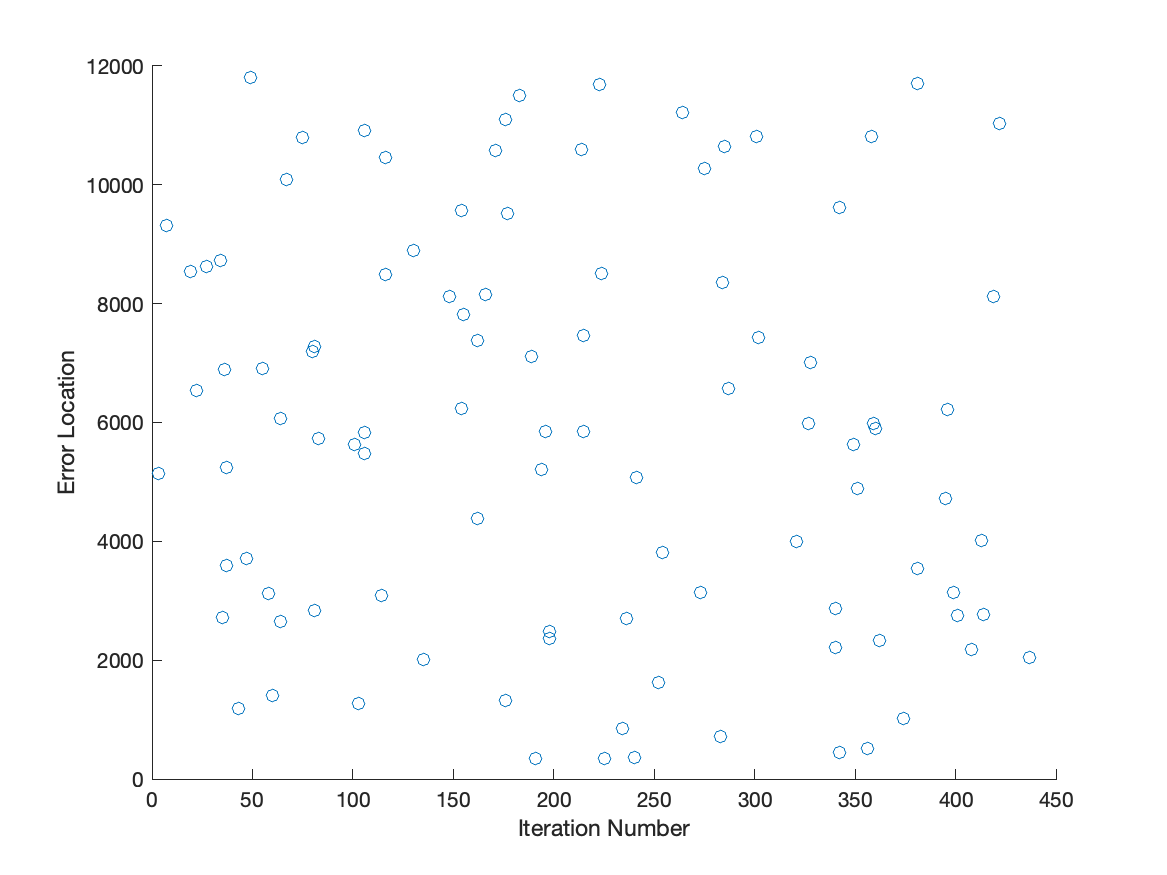
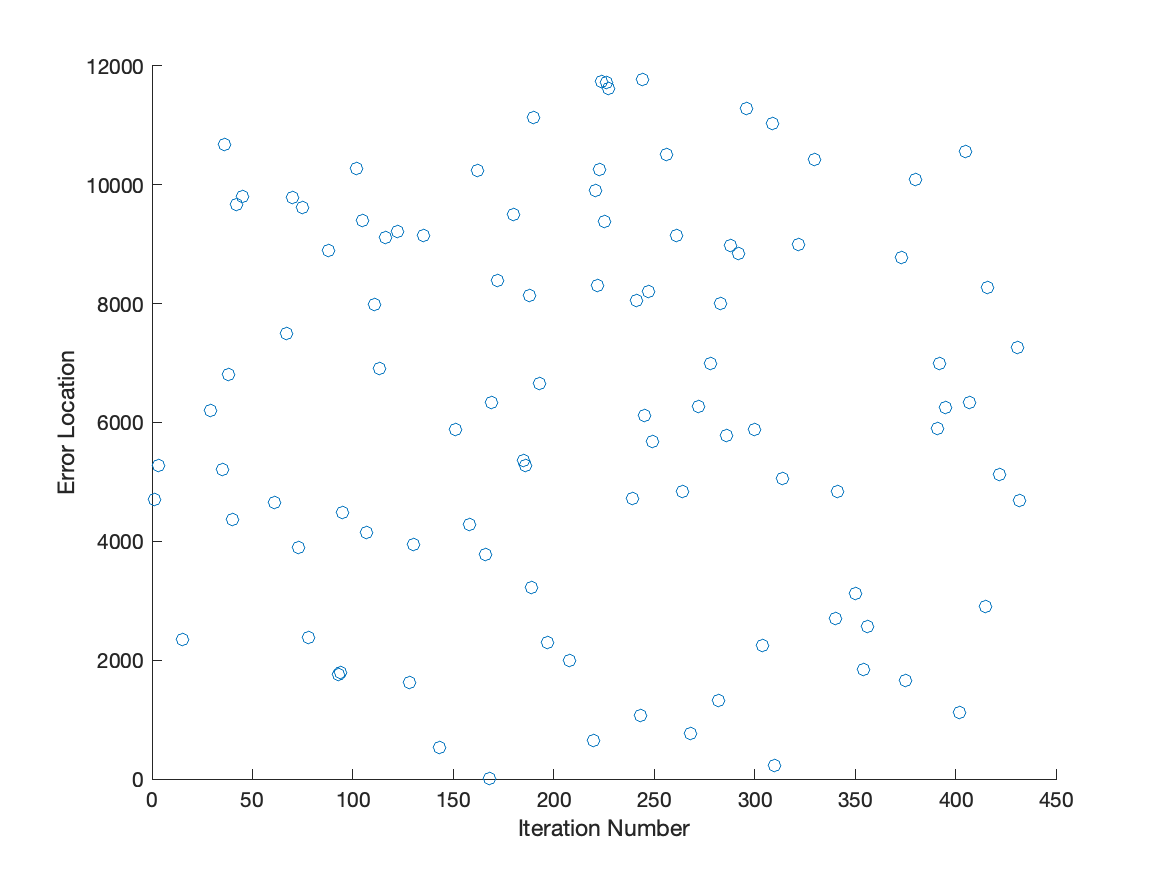
Changed to sampling without replacement

diff --git a/Step3_dynamic.m b/Step3_dynamic.m
@@ -1,4 +1,4 @@
-function Step3_solving(matrixname, bitflip_iter)
+function Step3_dynamic(matrixname, bitflip_iter)
 
 % This function injects error to a specific matrix at a particular iteration. 
 % matrixnname: name of the matrix 
@@ -13,7 +13,7 @@ A = Problem.A;
 disp('Done loading matrix');
 drawnow('update');
 [N, ~] = size(A);
-result_filename = ['./data/Step3_', matrixname, '_iter=', num2str(bitflip_iter), '.dat'];
+result_filename = ['./data/Step3_', matrixname, '_iter=', num2str(bitflip_iter), '_dynamic','.dat'];
 
 % load preconditioner of matrix
 precond_filename = ['./matrices/', matrixname, '_precond.mat'];
@@ -37,9 +37,9 @@ max_iter = 10000;
 fraction = .01;
 
 % create new error file to select which iterations to inject error
-new_error = ['./matrices/', matrixname, '_newerror.mat'];
+new_error = ['./matrices/', matrixname, '_newerror_dynamic.mat'];
 % load iterations file
-iter_filename = ['./matrices/', matrixname, '_convergence.mat'];
+iter_filename = ['./matrices/', matrixname, '_convergence_dynamic.mat'];
 if exist(new_error, 'file') < 1 % file does not exist 
     if N <= M       % if number of vector elements is <= number of experiments, then inject error in all elements
         E = [1:N]'; % error in every location
@@ -48,8 +48,8 @@ if exist(new_error, 'file') < 1 % file does not exist
         load(iter_filename, 'noerror_converge');
 %         num_elements = ceil(noerror_converge * fraction);
         
-        indices = datasample([1:noerror_converge], M, 'Replace',false); % find the interations we want to inject error in
-        E = datasample([1:N], M, 'Replace',false); % error in M random locations from 1 to N
+        indices = datasample([1:noerror_converge], M); % find the interations we want to inject error in
+        E = datasample([1:N], M); % error in M random locations from 1 to N
 
     end
     save(new_error, 'indices', 'E');
@@ -65,7 +65,7 @@ for m = 0:M
     if m == 0
         % Experiment 0: make an error-free run
         inject_error = 0;
-        [~,flag,iter,~] = pcg3(A, b, tol, max_iter, L, L', inject_error, 0, 0);
+        [~,flag,iter,~] = pcg4(A, b, tol, max_iter, L, L', inject_error, 0, 0);
         
         if flag == 1
            disp('error-free execution does not converge');
@@ -81,7 +81,7 @@ for m = 0:M
         bitflip_pos = E(:, m);
         bitflip_iter = indices(:,m);
         
-        [~,flag,iter,diff_v] = pcg3(A, b, tol, error_max_iter, L, L', inject_error, bitflip_pos, bitflip_iter);
+        [~,flag,iter,diff_v] = pcg4(A, b, tol, error_max_iter, L, L', inject_error, bitflip_pos, bitflip_iter);
         converge = iter;   % number of iterations in error-injecting run
         
         result = [N,flag,bitflip_iter,bitflip_pos,diff_v,A_row_2norm(bitflip_pos),noerror_converge,converge];

diff --git a/Step3_alt.m b/Step3_alt.m
@@ -1,0 +1,34 @@
+function Step3_alt
+
+% This function calls Step3_solving, which injects error to a specific
+% matrix at a particular iteration. 
+
+% matrices = {'cvxbqp1', 'thermal1', 'nd6k', ...
+%    'bcsstk18', 'bodyy5', 'cbuckle', 'Pres_Poisson', 'bcsstk36', 'ct20stif', 'gyro_m', 't2dah_e', 'm_t1', 'msc23052', '2cubes_sphere', 'pwtk', 'G2_circuit', 'raefsky4', ...
+%    'Trefethen_20000', 'vanbody','wathen100'};
+matrices = {'bcsstk18'}; 
+% matrices = {'wathen100'};
+  
+num_matrices = length(matrices);
+bitflip_iter = 1;
+
+
+
+%get number of iterations needed to converge w/o error
+for m = 1:num_matrices
+    matrixname = matrices{m};
+    noerror_run(matrixname, bitflip_iter);
+end
+
+for m = 1:num_matrices
+    matrixname = matrices{m}; 
+    Step3_dynamic(matrixname, bitflip_iter);
+end 
+
+for m = 1:num_matrices
+    new_error = ['./matrices/', matrices{m}, '_newerror_dynamic.mat'];
+    load(new_error, 'indices', 'E');
+    graph_errors(indices, E, matrices{m});
+end 
+
+end

diff --git a/pcg4.m b/pcg4.m
@@ -32,7 +32,7 @@ while (iter < maxit) && (relres > tol)
     % look at properties of vector x
     if (iter == bitflip_iter - 1) && (inject_error == 1)
         first_temp_gradient = abs(x(bitflip_pos)- x1(bitflip_pos));
-        second_temp_gradient = abs(x(bitflip_pos)- 2*x1(bitflip_pos) + x2(bitflip_pos));
+%         second_temp_gradient = abs(x(bitflip_pos)- 2*x1(bitflip_pos) + x2(bitflip_pos));
     end
     
     r = r - alpha * q;
